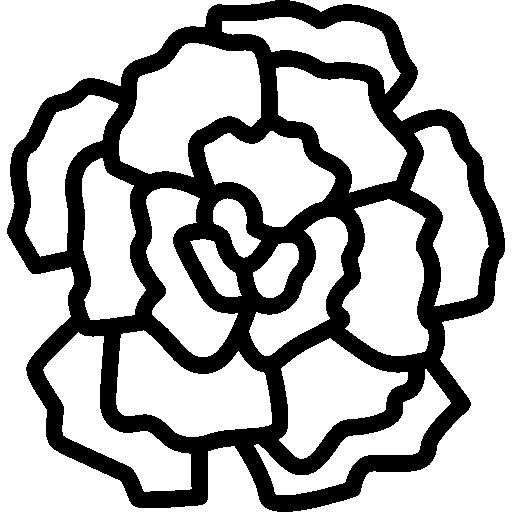
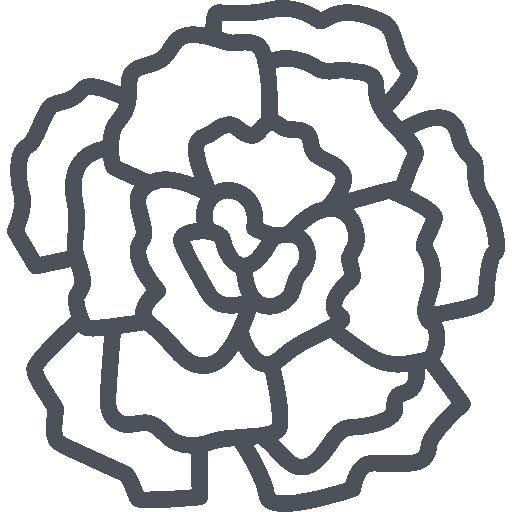
commit

Changed region(s): [[0.0, 0.0, 1.0, 1.0]]

diff --git a/index.html b/index.html
@@ -18,7 +18,7 @@
             <li>Una pequeña galeria con</li>
             <li>recuerdos nuestros</li>
         </ul>
-        <img id="logo-header" src="/assets/clavel-icon1.png">
+        <img id="logo-header" src="/assets/clavel-icon.png">
     </header>
     <div class="row">
         <div class="col">
